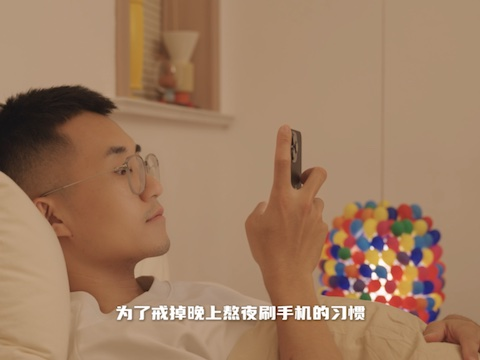
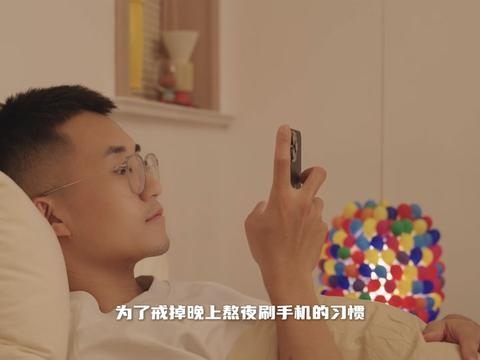
feat: replace gradient placeholders with real Douyin cover images
- Fetched 8 real Douyin cover images via yt-dlp
- Updated all video cards with actual platform covers
- Fixed extra closing divs in video card HTML structure
- 麦当劳 cover pending (timeout), 千里换一回 has placeholder link

diff --git a/index.html b/index.html
@@ -388,10 +388,8 @@
                     <!-- 美食冰箱 - 抖音链接 -->
                     <div class="video-card" data-douyin="https://v.douyin.com/vAXLDlJ6A9M/" data-title="冰箱美食街" data-zh-title="冰箱美食街" data-en-title="Fridge Food Street" data-meta="全平台播放 630w+ | 点赞 35w+">
                         <div class="video-thumb">
-                            <div class="video-thumb-bg" style="background: linear-gradient(135deg, #2E86AB, #08D9D6);">
-                                <i class="fa-solid fa-utensils"></i>
-                                <div class="video-play-btn"><div class="play-circle"><i class="fa-solid fa-play"></i></div></div>
-                            </div>
+                            <img src="images/video-covers/冰箱美食街.jpg" alt="冰箱美食街" class="video-cover-img" loading="lazy">
+                            <div class="video-play-btn"><div class="play-circle"><i class="fa-solid fa-play"></i></div></div>
                         </div>
                         <div class="video-info">
                             <h4 data-zh="冰箱美食街" data-en="Fridge Food Street">冰箱美食街</h4>
@@ -402,10 +400,8 @@
                     <!-- 曼德拉草尖叫充电器 -->
                     <div class="video-card" data-douyin="https://v.douyin.com/pchfJNWNHp4/" data-title="曼德拉草尖叫充电器" data-zh-title="曼德拉草尖叫充电器" data-en-title="Mandrake Screaming Charger" data-meta="哈利波特主题手工 | 3D打印">
                         <div class="video-thumb">
-                            <div class="video-thumb-bg" style="background: linear-gradient(135deg, #5C1A1B, #9B1B30);">
-                                <i class="fa-solid fa-bolt"></i>
-                                <div class="video-play-btn"><div class="play-circle"><i class="fa-solid fa-play"></i></div></div>
-                            </div>
+                            <img src="images/video-covers/曼德拉草.jpg" alt="曼德拉草尖叫充电器" class="video-cover-img" loading="lazy">
+                            <div class="video-play-btn"><div class="play-circle"><i class="fa-solid fa-play"></i></div></div>
                         </div>
                         <div class="video-info">
                             <h4 data-zh="曼德拉草尖叫充电器" data-en="Mandrake Screaming Charger">曼德拉草尖叫充电器</h4>
@@ -416,10 +412,8 @@
                     <!-- 巨型圣诞礼盒 -->
                     <div class="video-card" data-douyin="https://v.douyin.com/SUj_MMi18_I/" data-title="巨型圣诞礼盒" data-zh-title="巨型圣诞礼盒" data-en-title="Giant Christmas Gift Box" data-meta="圣诞礼物手工DIY">
                         <div class="video-thumb">
-                            <div class="video-thumb-bg" style="background: linear-gradient(135deg, #C0392B, #F39C12);">
-                                <i class="fa-solid fa-gift"></i>
-                                <div class="video-play-btn"><div class="play-circle"><i class="fa-solid fa-play"></i></div></div>
-                            </div>
+                            <img src="images/video-covers/圣诞礼盒.jpg" alt="巨型圣诞礼盒" class="video-cover-img" loading="lazy">
+                            <div class="video-play-btn"><div class="play-circle"><i class="fa-solid fa-play"></i></div></div>
                         </div>
                         <div class="video-info">
                             <h4 data-zh="巨型圣诞礼盒" data-en="Giant Christmas Gift Box">巨型圣诞礼盒</h4>
@@ -430,10 +424,8 @@
                     <!-- 回转寿司喂食器 -->
                     <div class="video-card" data-douyin="https://v.douyin.com/j9sFSN6GVlM/" data-title="回转寿司喂食器" data-zh-title="回转寿司喂食器" data-en-title="Conveyor Belt Sushi Cat Feeder" data-meta="流浪猫 | 原创设计已申请专利">
                         <div class="video-thumb">
-                            <div class="video-thumb-bg" style="background: linear-gradient(135deg, #F39C12, #E74C3C);">
-                                <i class="fa-solid fa-cat"></i>
-                                <div class="video-play-btn"><div class="play-circle"><i class="fa-solid fa-play"></i></div></div>
-                            </div>
+                            <img src="images/video-covers/寿司猫.jpg" alt="回转寿司喂食器" class="video-cover-img" loading="lazy">
+                            <div class="video-play-btn"><div class="play-circle"><i class="fa-solid fa-play"></i></div></div>
                         </div>
                         <div class="video-info">
                             <h4 data-zh="回转寿司喂食器" data-en="Conveyor Belt Sushi Cat Feeder">回转寿司喂食器</h4>
@@ -444,10 +436,8 @@
                     <!-- 披萨扫地机器人 -->
                     <div class="video-card" data-douyin="https://v.douyin.com/dpjokBJcJyA/" data-title="披萨扫地机器人" data-zh-title="披萨扫地机器人" data-en-title="Pizza Robot Vacuum" data-meta="石头扫地机器人 | 创意改造">
                         <div class="video-thumb">
-                            <div class="video-thumb-bg" style="background: linear-gradient(135deg, #E67E22, #F1C40F);">
-                                <i class="fa-solid fa-pizza-slice"></i>
-                                <div class="video-play-btn"><div class="play-circle"><i class="fa-solid fa-play"></i></div></div>
-                            </div>
+                            <img src="images/video-covers/披萨扫地.jpg" alt="披萨扫地机器人" class="video-cover-img" loading="lazy">
+                            <div class="video-play-btn"><div class="play-circle"><i class="fa-solid fa-play"></i></div></div>
                         </div>
                         <div class="video-info">
                             <h4 data-zh="披萨扫地机器人" data-en="Pizza Robot Vacuum">披萨扫地机器人</h4>
@@ -472,10 +462,8 @@
                     <!-- NIO 三八妇女节 -->
                     <div class="video-card" data-douyin="https://v.douyin.com/wbCoi12CjbY/" data-title="NIO Women's Day" data-zh-title="NIO 三八妇女节特别企划" data-en-title="NIO International Women's Day Special" data-meta="3期深度访谈+1期TVC | 全平台播放 90w+">
                         <div class="video-thumb">
-                            <div class="video-thumb-bg" style="background: linear-gradient(135deg, #3B82F6, #08D9D6);">
-                                <i class="fa-solid fa-venus"></i>
-                                <div class="video-play-btn"><div class="play-circle"><i class="fa-solid fa-play"></i></div></div>
-                            </div>
+                            <img src="images/video-covers/NIO妇女节.jpg" alt="NIO 三八妇女节特别企划" class="video-cover-img" loading="lazy">
+                            <div class="video-play-btn"><div class="play-circle"><i class="fa-solid fa-play"></i></div></div>
                         </div>
                         <div class="video-info">
                             <h4 data-zh="NIO 三八妇女节特别企划" data-en="NIO Intl. Women's Day Special">NIO 三八妇女节特别企划</h4>